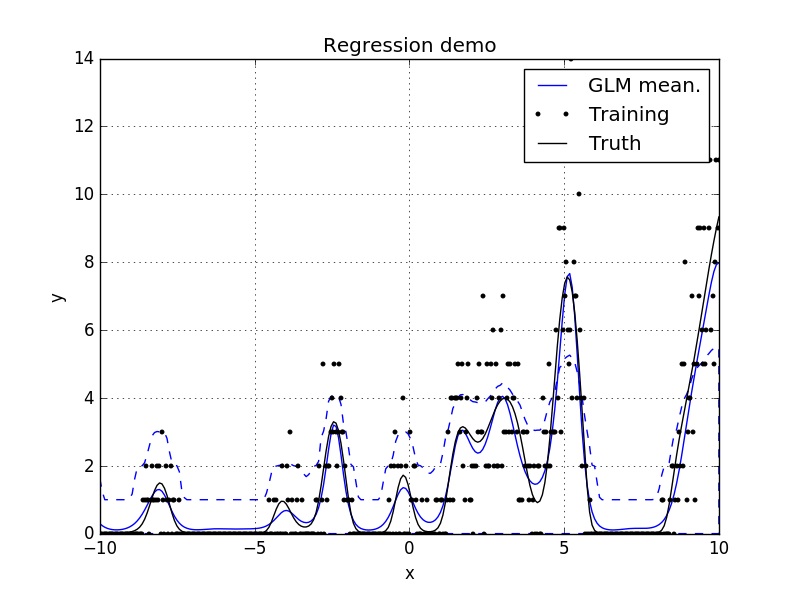
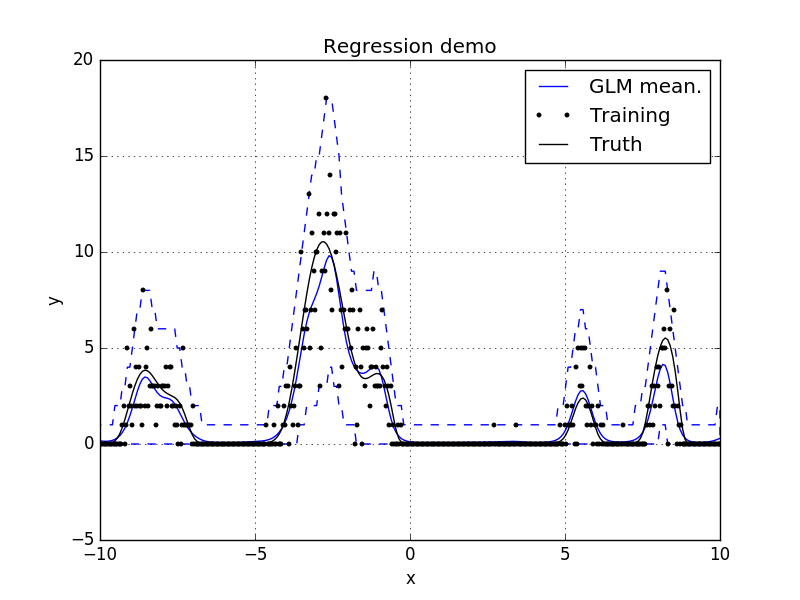
replaced interval sampling with root finding

diff --git a/revrand/likelihoods.py b/revrand/likelihoods.py
@@ -217,27 +217,6 @@ class Bernoulli():
 
         return bernoulli.cdf(y, logistic(f))
 
-    def interval(self, alpha, f):
-        """ Confidence interval with equal areas around the median.
-
-        Parameters
-        ----------
-            alpha: array_like of float
-                Probability that a random variable will be drawn from the
-                returned range. Each value should be in [0, 1].
-            f: array_like
-                latent function from the GLM prior
-
-        Returns
-        -------
-        a, b: ndarray of float
-            end-points of range that contain 100 * alpha % of the random
-            variable's possible values.
-
-        """
-
-        return bernoulli.interval(alpha, logistic(f))
-
 
 class Gaussian(Bernoulli):
     """
@@ -431,30 +410,7 @@ class Gaussian(Bernoulli):
                 Cumulative density function evaluated at y.
         """
 
-        return norm.cdf(y, logistic(f), scale=np.sqrt(var))
-
-    def interval(self, alpha, f, var):
-        """ Confidence interval with equal areas around the median.
-
-        Parameters
-        ----------
-            alpha: array_like of float
-                Probability that a random variable will be drawn from the
-                returned range. Each value should be in [0, 1].
-            f: array_like
-                latent function from the GLM prior
-            var: float, array_like
-                The variance of the distribution
-
-        Returns
-        -------
-        a, b: ndarray of float
-            end-points of range that contain 100 * alpha % of the random
-            variable's possible values.
-
-        """
-
-        return norm.interval(alpha, loc=f, scale=np.sqrt(var))
+        return norm.cdf(y, loc=f, scale=np.sqrt(var))
 
 
 class Poisson(Bernoulli):
@@ -612,28 +568,8 @@ class Poisson(Bernoulli):
                 Cumulative density function evaluated at y.
         """
 
-        return poisson.cdf(y, _safesoftplus(f))
-
-    def interval(self, alpha, f):
-        """ Confidence interval with equal areas around the median.
-
-        Parameters
-        ----------
-            alpha: array_like of float
-                Probability that a random variable will be drawn from the
-                returned range. Each value should be in [0, 1].
-            f: array_like
-                latent function from the GLM prior
-
-        Returns
-        -------
-        a, b: ndarray of float
-            end-points of range that contain 100 * alpha % of the random
-            variable's possible values.
-
-        """
-
-        return poisson.interval(alpha, _safesoftplus(f))
+        mu = np.exp(f) if self.tranfcn == 'exp' else softplus(f)
+        return poisson.cdf(y, mu=mu)
 
 
 #

diff --git a/revrand/glm.py b/revrand/glm.py
@@ -11,7 +11,9 @@ from __future__ import division
 
 import numpy as np
 import logging
+from multiprocessing import Pool
 from scipy.stats.distributions import gamma
+from scipy.optimize import brentq
 
 from .transforms import logsumexp
 from .optimize import minimize, sgd
@@ -392,13 +394,44 @@ def predict_interval(alpha, Xs, likelihood, basis, m, C, lparams, bparams,
     """
 
     f = _sample_func(Xs, basis, m, C, bparams, nsamples)
-    a, b = likelihood.interval(alpha, f, *lparams)
-    return a.mean(axis=1), b.mean(axis=1)
+    work = ((fn, likelihood, lparams, alpha) for fn in f)
+
+    pool = Pool()
+    res = pool.starmap(_rootfinding, work)
+    pool.close()
+    pool.join()
+    # res = [_rootfinding(*w) for w in work]
+
+    ql, qu = zip(*res)
+
+    return np.array(ql), np.array(qu)
 
 
 #
-# Private module functions
+#  Internal Module Utilities
 #
+
+def _rootfinding(fn, likelihood, lparams, alpha):
+
+    # CDF minus percentile for quantile root finding
+    predCDF = lambda q, fs, percent: \
+        (likelihood.cdf(q, fs, *lparams)).mean() - percent
+
+    lpercent = (1 - alpha) / 2
+    upercent = 1 - lpercent
+    Eyn = likelihood.Ey(fn, *lparams).mean()
+    lb, ub = -100 * max(Eyn, 1), 100 * max(Eyn, 1)
+
+    qln = brentq(predCDF, a=lb, b=ub, args=(fn, lpercent))
+    qun = brentq(predCDF, a=lb, b=ub, args=(fn, upercent))
+
+    # try:
+    #     qun = brentq(predCDF, a=qln, b=ub, args=(fn, upercentile))
+    # except ValueError:
+    #     qun = np.nan
+
+    return qln, qun
+
 
 def _sample_func(Xs, basis, m, C, bparams, nsamples):
 

diff --git a/demos/demo_glm.py b/demos/demo_glm.py
@@ -116,10 +116,10 @@ Xpl_s = Xtest.flatten()
 
 # Regressor
 pl.plot(Xpl_s, Ey, 'b-', label='GLM mean.')
-# pl.fill_between(Xpl_s, Ey - Sy2, Ey + Sy2, facecolor='b', edgecolor='none',
-#                 label=None, alpha=0.3)
-pl.fill_between(Xpl_s, Eyn, Eyx, facecolor='b', edgecolor='none', label=None,
-                alpha=0.3)
+pl.fill_between(Xpl_s, Ey - Sy2, Ey + Sy2, facecolor='b', edgecolor='none',
+                label=None, alpha=0.3)
+# pl.fill_between(Xpl_s, Eyn, Eyx, facecolor='b', edgecolor='none', label=None,
+#                 alpha=0.3)
 pl.fill_between(Xpl_s, y95n, y95x, facecolor='none', edgecolor='b', label=None,
                 linestyle='--')
 
